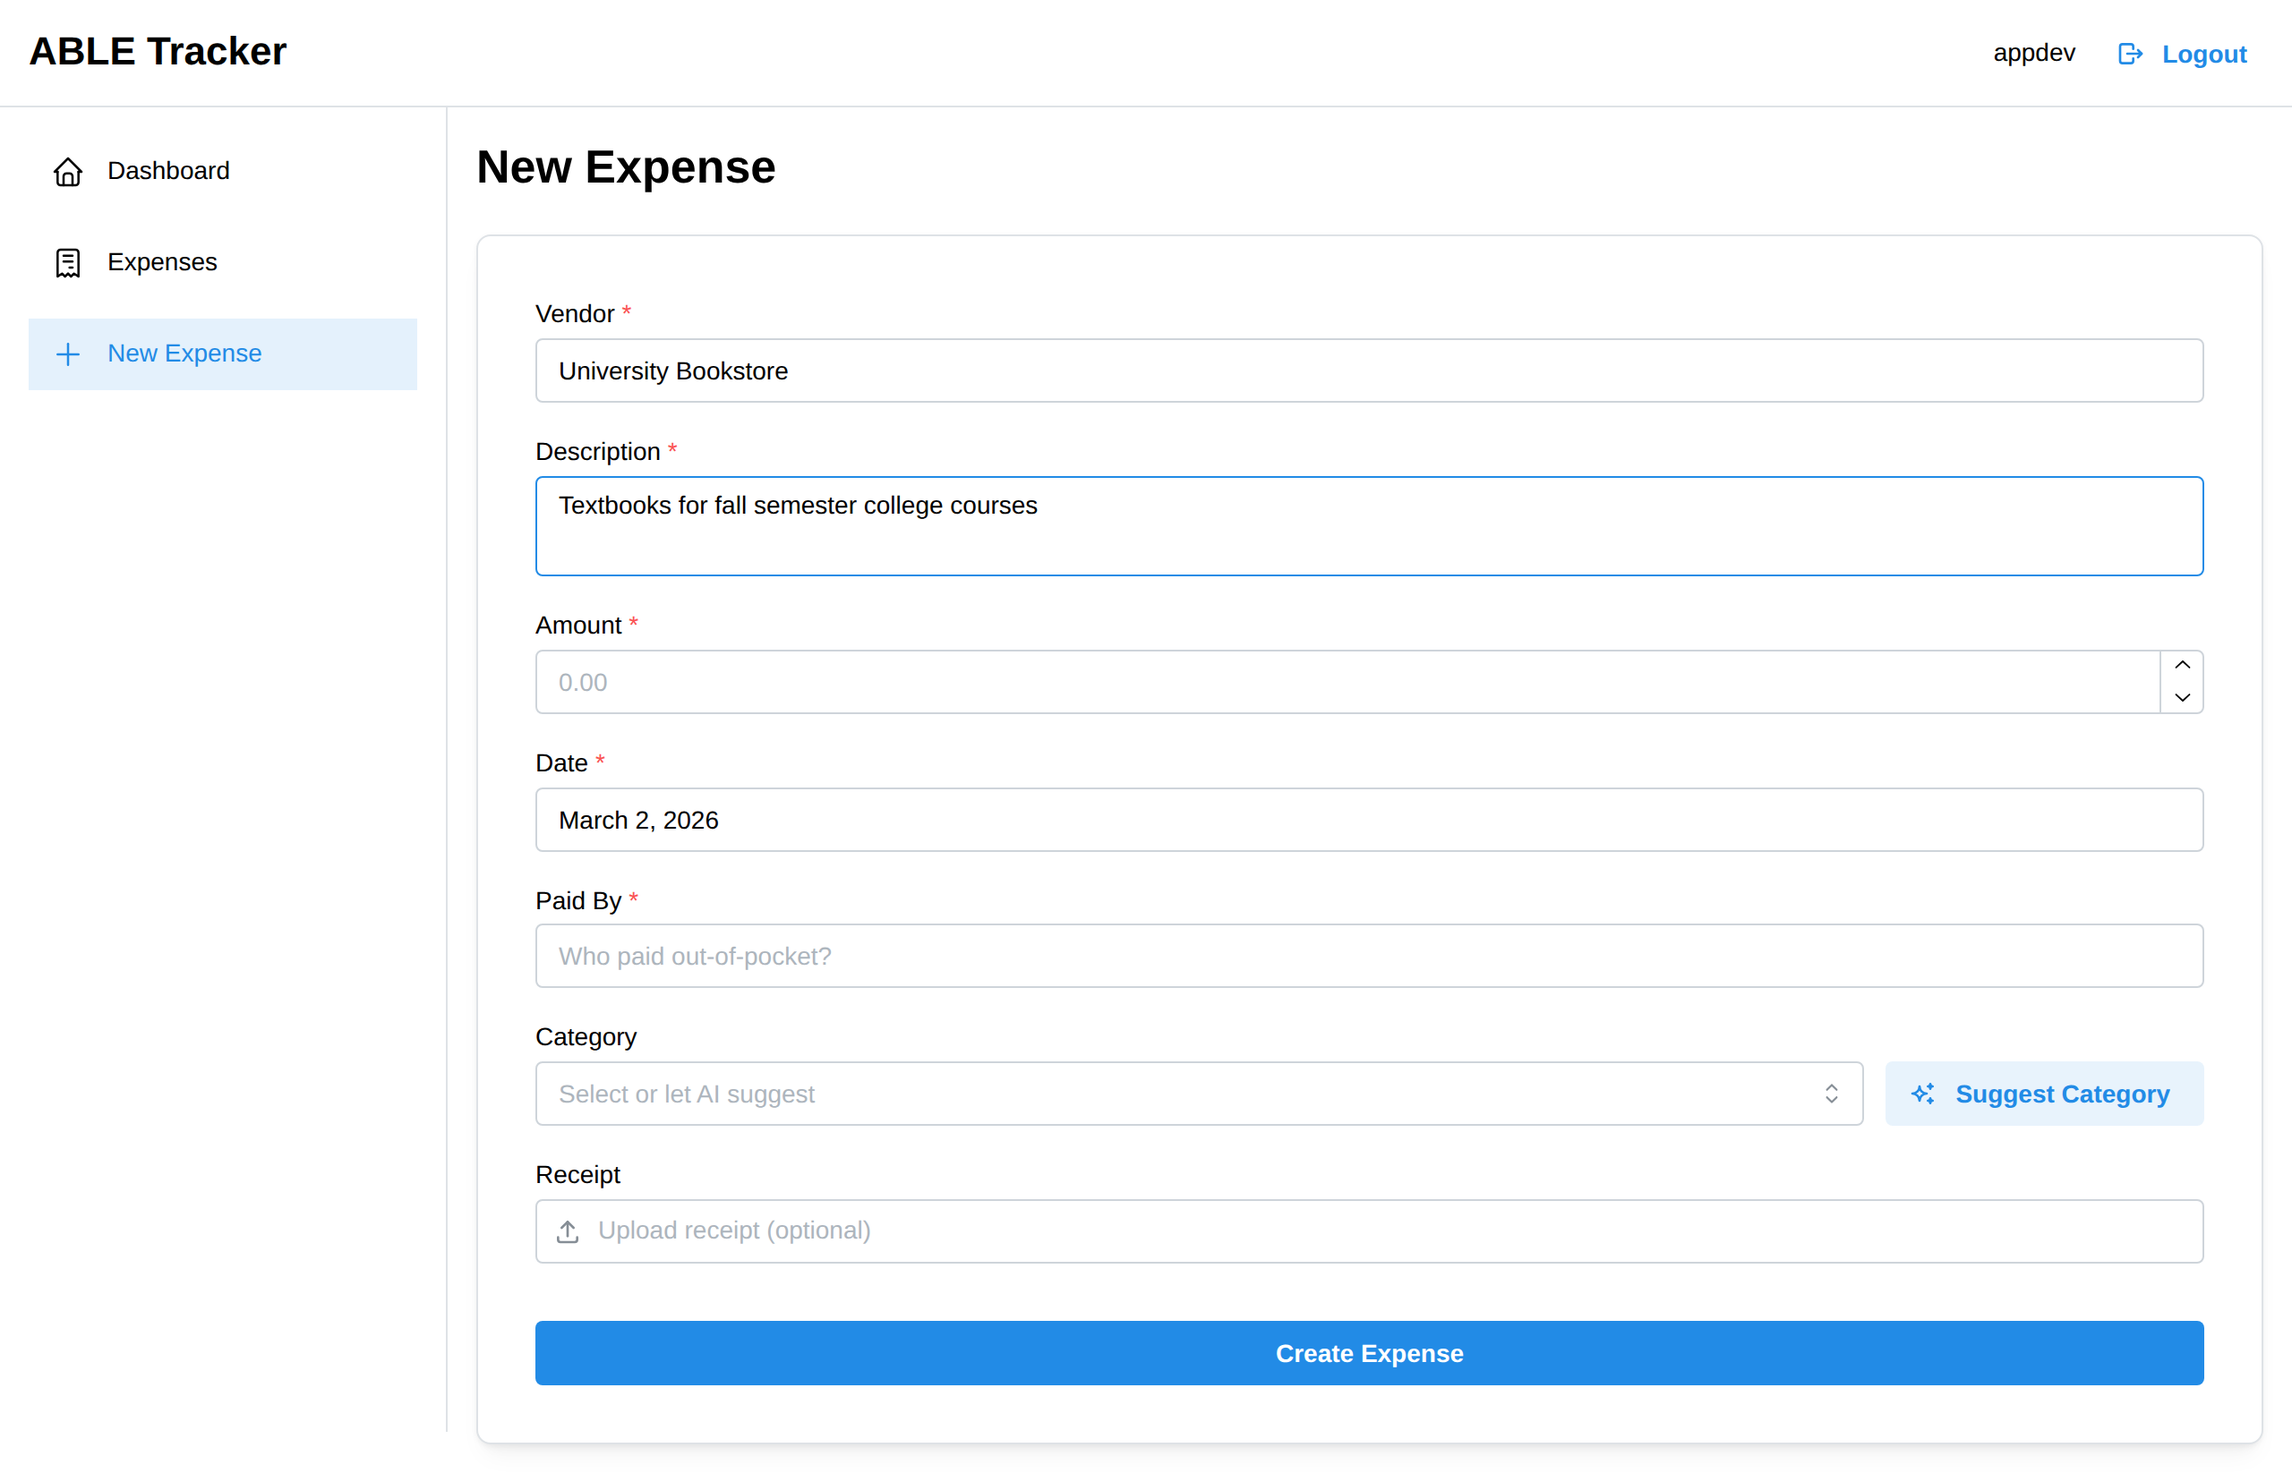
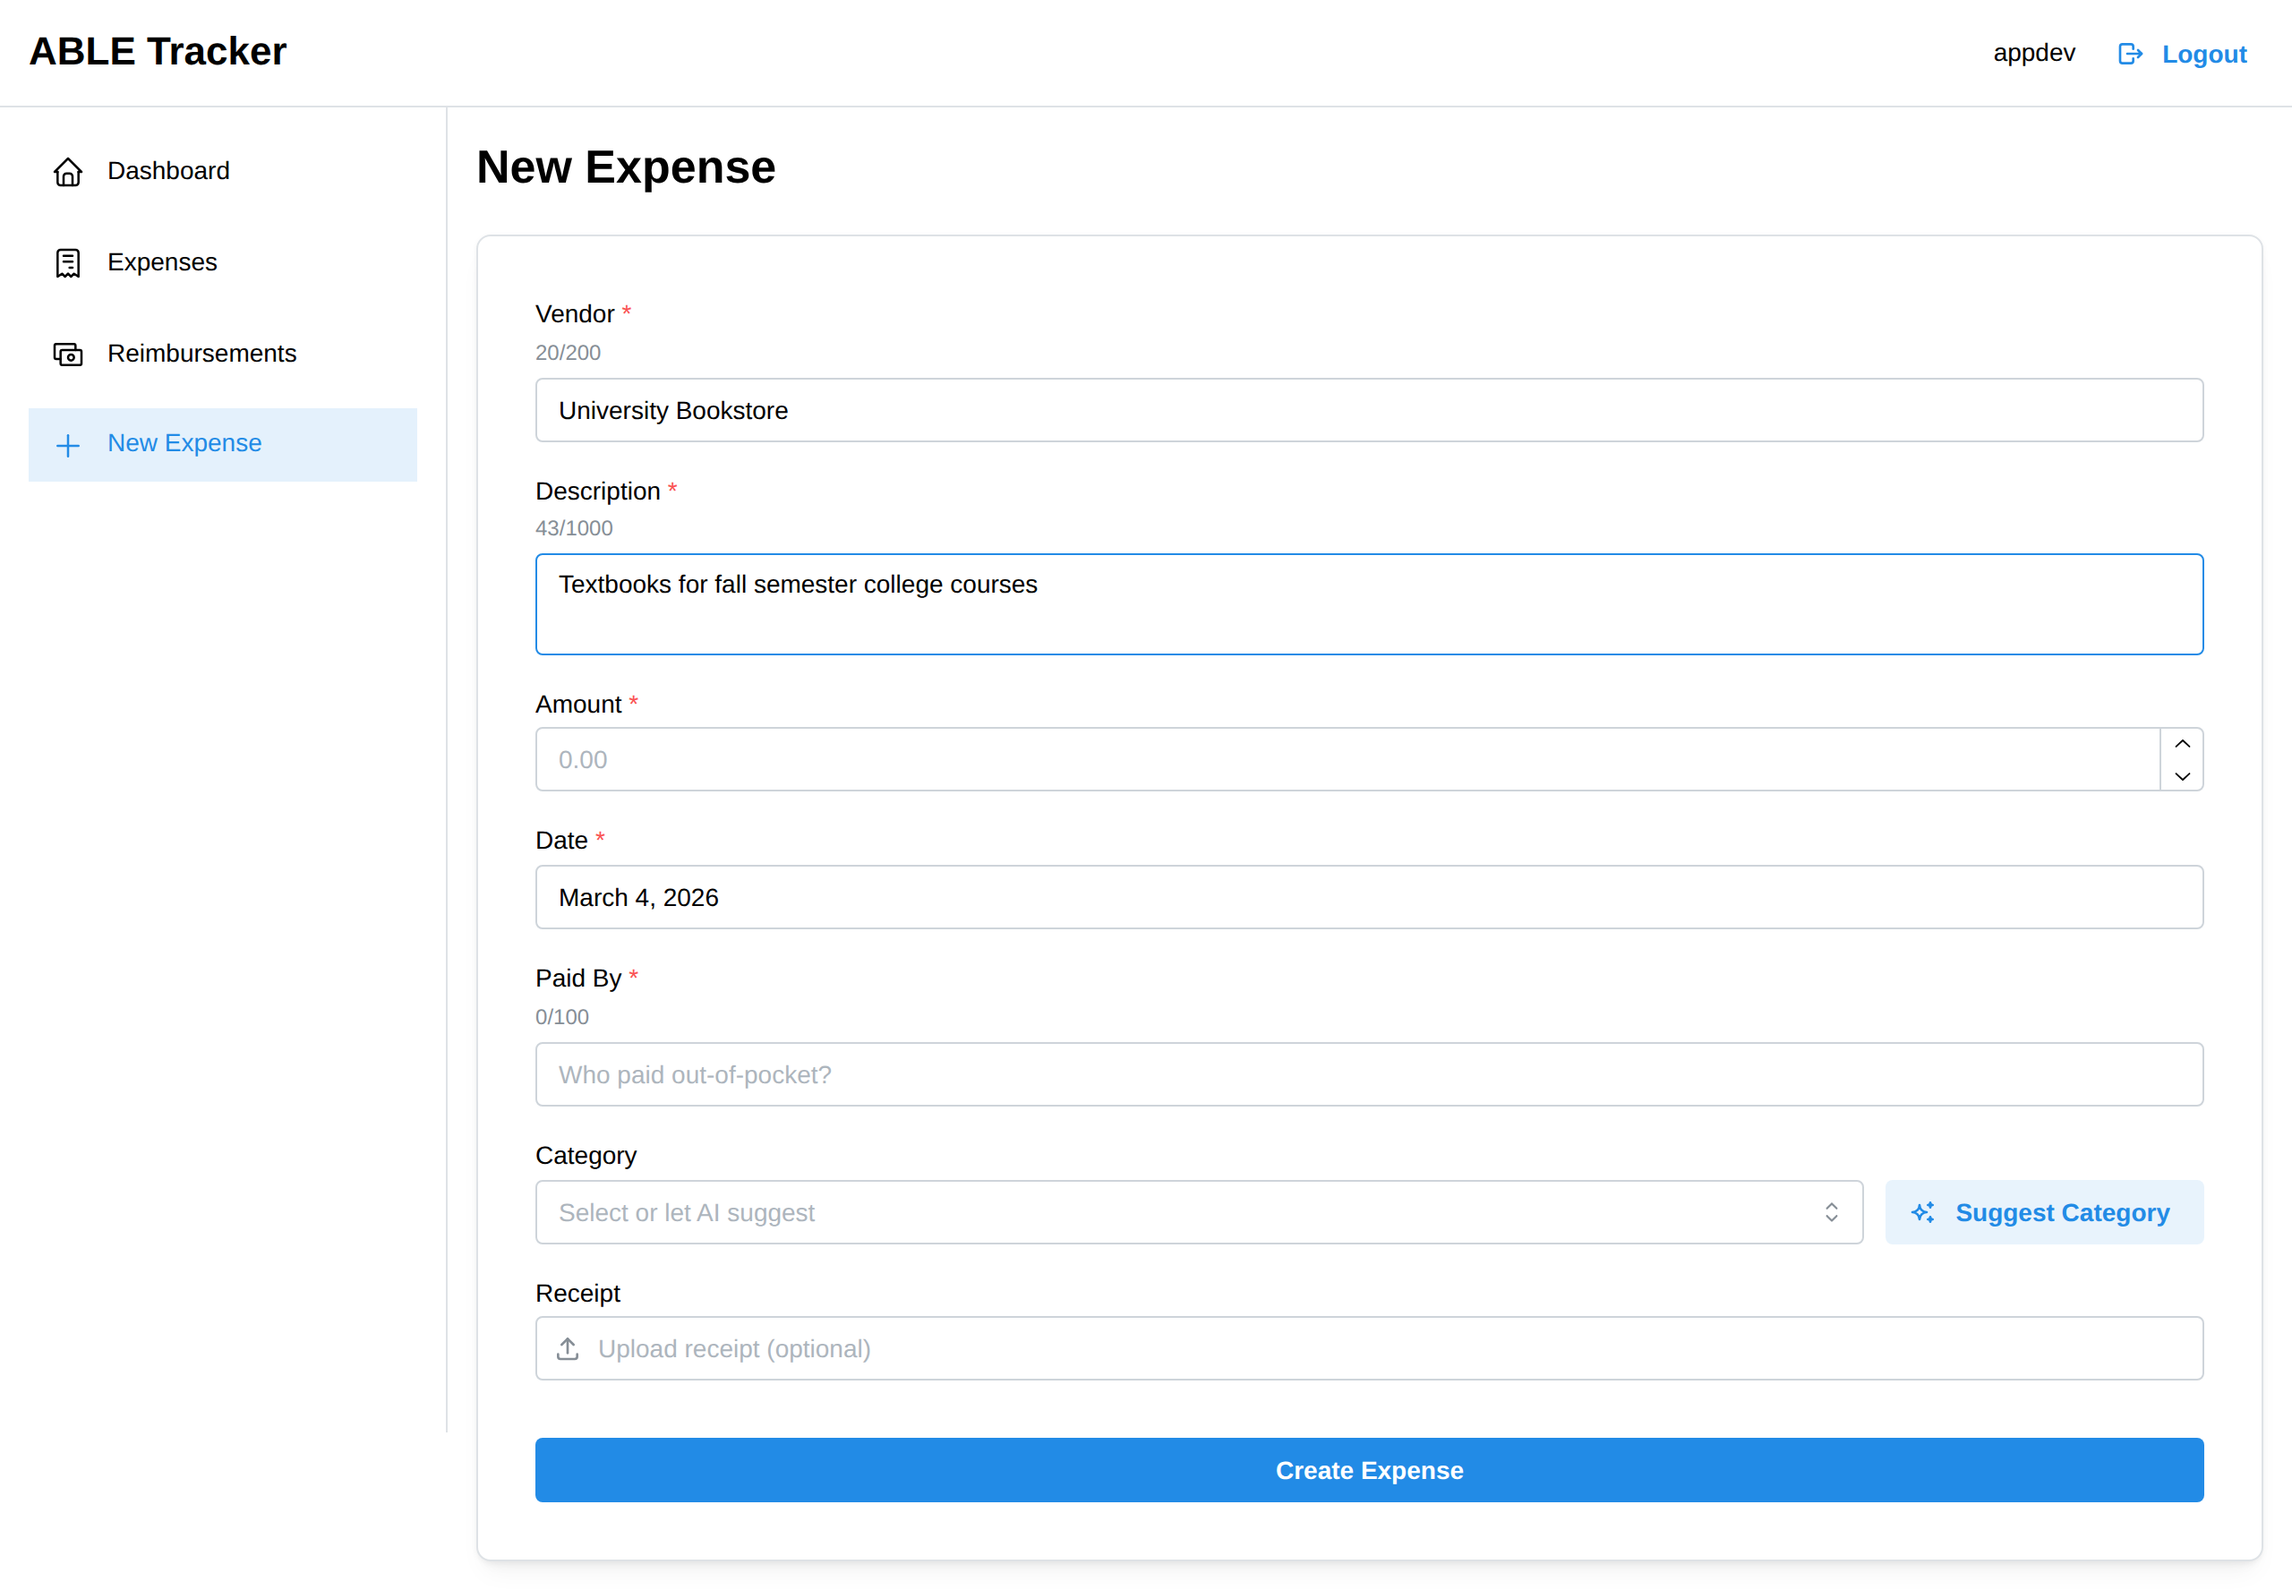
docs: update product demo for Sprint 4
- Add new Section 8 (Reimbursements page) with screenshot
- Update Dashboard section to document reimbursement summary and recent expenses
- Update Add Expense form with character limits (vendor 200, description 1000, paidBy 100) and $1M amount cap
- Update Navigation section for 4 sidebar links (added Reimbursements)
- Move Reimbursement Tracking from "Coming Soon" to implemented
- Update Security section with least-privilege IAM and post-deploy smoke tests
- Add Reimbursements page capture to capture-screenshots.mjs
- Refresh all screenshots against live deployed environment

diff --git a/docs/demos/product-demo.md b/docs/demos/product-demo.md
@@ -1,6 +1,6 @@
 # ABLE Tracker -- Product Demo
 
-> Last updated: Sprint 3, 2026-03-02 (post-deployment)
+> Last updated: Sprint 4, 2026-03-04 (post-deployment)
 
 ## What is ABLE Tracker?
 
@@ -79,7 +79,7 @@ All application pages (Dashboard, Expenses, Add Expense) are protected. Unauthen
 
 ![Dashboard](screenshots/03-dashboard.png)
 
-The Dashboard is the landing page after login. It greets the user by name and provides quick-action cards for common tasks.
+The Dashboard is the landing page after login. It greets the user by name, provides quick-action cards for common tasks, shows a reimbursement summary, and lists recent expenses.
 
 **Steps:**
 
@@ -88,16 +88,27 @@ The Dashboard is the landing page after login. It greets the user by name and pr
 3. See two quick-action cards:
    - **"Add Expense"** -- Record a new qualified ABLE expense
    - **"View Expenses"** -- Browse and manage your expenses
+4. Below the quick actions, the **Reimbursements** section shows:
+   - **Total Unreimbursed** -- The aggregate amount owed across all payers
+   - Per-person cards showing each payer's name, amount owed, and expense count
+5. The **Recent Expenses** section shows the 5 most recent expenses with vendor, date, and amount.
 
 **What happens:**
 - The display name is extracted from your Cognito JWT token claims.
-- Each card is a clickable link that navigates to the corresponding page.
+- Each quick-action card is a clickable link that navigates to the corresponding page.
+- Reimbursement summaries are fetched from the `/dashboard/reimbursements` API endpoint.
+- Recent expenses are fetched from `/expenses` and trimmed to the 5 most recent.
+- If no expenses exist, an empty state is shown with a link to add the first expense.
 
 **Verification:**
 - [ ] Dashboard displays "Welcome, [name]" with the logged-in user's display name
 - [ ] "Add Expense" card links to `/expenses/new`
 - [ ] "View Expenses" card links to `/expenses`
 - [ ] Cards are visually distinct with icons (blue plus icon, teal receipt icon)
+- [ ] Reimbursements section shows total unreimbursed amount
+- [ ] Per-person reimbursement cards show name, amount, and expense count
+- [ ] Recent Expenses section shows up to 5 expenses with vendor, date, and amount
+- [ ] Empty state shows a friendly message with a link to add an expense
 
 ---
 
@@ -114,11 +125,12 @@ The app uses a sidebar navigation layout with a fixed header. On mobile, the sid
 **Sidebar links:**
 - **Dashboard** (home icon) -- `/`
 - **Expenses** (receipt icon) -- `/expenses`
+- **Reimbursements** (cash icon) -- `/reimbursements`
 - **New Expense** (plus icon) -- `/expenses/new`
 
 **Steps:**
 
-1. From any page, observe the sidebar on the left with three navigation links.
+1. From any page, observe the sidebar on the left with four navigation links.
 2. Click each link to navigate between pages.
 3. On the header, observe your display name and the Logout button.
 4. Click **Logout** to end your session and return to the login page.
@@ -132,7 +144,7 @@ The app uses a sidebar navigation layout with a fixed header. On mobile, the sid
 3. Tap the hamburger to open/close the sidebar as an overlay.
 
 **Verification:**
-- [ ] Three navigation links are visible: Dashboard, Expenses, New Expense
+- [ ] Four navigation links are visible: Dashboard, Expenses, Reimbursements, New Expense
 - [ ] Active page is visually highlighted in the sidebar
 - [ ] Clicking a link navigates to the correct page
 - [ ] Display name appears in the header
@@ -152,11 +164,11 @@ This is the core data entry form where authorized representatives record qualifi
 
 | Field       | Type          | Required | Notes |
 |-------------|---------------|----------|-------|
-| Vendor      | Text input    | Yes      | e.g., "University Bookstore" |
-| Description | Text area     | Yes      | Describe what the expense was for |
-| Amount      | Number input  | Yes      | Entered in dollars (e.g., $75.00), converted to cents internally |
+| Vendor      | Text input    | Yes      | e.g., "University Bookstore" (max 200 characters) |
+| Description | Text area     | Yes      | Describe what the expense was for (max 1,000 characters) |
+| Amount      | Number input  | Yes      | Entered in dollars (e.g., $75.00), converted to cents internally. Max $1,000,000 |
 | Date        | Date picker   | Yes      | Defaults to today; cannot be a future date |
-| Paid By     | Text input    | Yes      | Who paid out-of-pocket for this expense |
+| Paid By     | Text input    | Yes      | Who paid out-of-pocket for this expense (max 100 characters) |
 | Category    | Select/AI     | No       | One of 11 ABLE categories; can be selected manually or suggested by AI |
 | Receipt     | File upload   | No       | Accepts images and PDFs (upload UI present, backend handler exists) |
 
@@ -183,12 +195,15 @@ This is the core data entry form where authorized representatives record qualifi
 
 **Validation rules:**
 - Vendor, Description, and Paid By must not be empty
-- Amount must be greater than zero
+- Vendor max 200 characters, Description max 1,000 characters, Paid By max 100 characters
+- Amount must be greater than zero and no more than $1,000,000
 - Date must not be in the future
 
 **Verification:**
 - [ ] All required fields show error messages when submitted empty
 - [ ] Amount field displays `$` prefix and formats to two decimal places
+- [ ] Amount rejects values over $1,000,000
+- [ ] Character limits enforced: Vendor (200), Description (1,000), Paid By (100)
 - [ ] Date picker defaults to today and blocks future dates
 - [ ] Category dropdown lists all 11 ABLE categories
 - [ ] Success notification appears after creating an expense
@@ -302,7 +317,49 @@ If no expenses have been recorded yet, the page shows a friendly empty state wit
 
 ---
 
-### 8. Logout
+### 8. Reimbursements
+
+![Reimbursements page](screenshots/11-reimbursements.png)
+
+The Reimbursements page provides a dedicated view of who is owed money and how much. It aggregates all unreimbursed expenses by payer and shows a summary with recent expense details.
+
+**Page sections:**
+
+1. **Total Unreimbursed** -- A prominent banner showing the aggregate unreimbursed amount across all payers
+2. **Per-person cards** -- Each card shows the payer's name, number of unreimbursed expenses, and total amount owed (displayed in red)
+3. **Recent Expenses table** -- The 5 most recent expenses with date, vendor, paid by, amount, and reimbursed status badge
+4. **Add Expense button** -- Quick action to create a new expense from this page
+
+**Steps:**
+
+1. Navigate to **Reimbursements** from the sidebar.
+2. Observe the **Total Unreimbursed** amount at the top.
+3. Review the per-person breakdown cards showing who is owed what.
+4. Scroll down to see the **Recent Expenses** table with reimbursement status badges.
+
+**What happens:**
+- All expenses are fetched from the API via `/expenses`.
+- The page filters out reimbursed expenses and aggregates the remaining by `paidBy` field.
+- Per-person cards are sorted by total owed (highest first).
+- The Recent Expenses table shows the 5 most recent expenses regardless of reimbursement status.
+
+**Empty states:**
+- If no expenses exist, a friendly message appears: "No expenses yet. Add your first expense to start tracking reimbursements."
+- If all expenses are reimbursed, a green "All caught up!" message appears.
+
+**Verification:**
+- [ ] Total Unreimbursed amount is displayed prominently
+- [ ] Per-person cards show payer name, expense count, and amount owed in red
+- [ ] Amount owed excludes reimbursed expenses
+- [ ] Recent Expenses table shows date, vendor, paid by, amount, and reimbursed badge
+- [ ] Reimbursed badge is green for "Yes" and gray for "No"
+- [ ] "Add Expense" button links to `/expenses/new`
+- [ ] Empty state shows when no expenses exist
+- [ ] "All caught up!" state shows when all expenses are reimbursed
+
+---
+
+### 9. Logout
 
 ![Logout](screenshots/10-logout.png)
 
@@ -353,22 +410,19 @@ All API endpoints require a valid Cognito JWT in the `Authorization: Bearer <tok
 
 - **API Gateway JWT authorizer** -- All routes require Cognito JWT validation before reaching Lambda
 - **Lambda-level auth validation** -- Defense-in-depth; handlers verify auth context independently
+- **Least-privilege IAM** -- Lambda roles use fine-grained DynamoDB permissions (specific actions on specific table/index ARNs) instead of broad wildcards
 - **CORS restriction** -- API only accepts requests from the deployed frontend domain and localhost
-- **Input validation** -- String length limits, amount validation, receipt key scoping
+- **Input validation** -- String length limits (vendor 200, description 1000, paidBy 100), amount validation (>0, max $1M), receipt key scoping
 - **Generic error messages** -- Auth failures return generic messages; no implementation details leaked
 - **Secret scanning** -- Pre-commit hook and CI pipeline scan for leaked secrets/credentials
 - **No PII to AI** -- Only vendor name and description are sent to the Claude API; no account numbers, SSNs, or personal data
+- **Post-deploy smoke tests** -- Automated CI pipeline validates all API endpoints after every deployment
 
 ---
 
 ## Coming Soon
 
 The following features are planned but not yet implemented:
-
-### Reimbursement Tracking (Issues #10, #16, #65)
-- **What**: Mark expenses as reimbursed, track who is owed what, dashboard summary showing total outstanding per person
-- **Why**: This closes the core workflow loop: log expense -> categorize -> reimburse
-- **Status**: Backend data model supports it (reimbursed/reimbursedAt fields exist); UI and API handler not yet built
 
 ### Receipt Upload UI
 - **What**: Frontend interface for attaching receipt photos/PDFs to expenses
@@ -430,7 +484,7 @@ The app is responsive (sidebar collapses on narrow screens), but has not been op
 1. Open your CloudFront URL in your browser (see `deployment.env.example` for how to find it).
 2. Log in with your credentials.
 3. Explore the Dashboard, navigate between pages, and try the Add Expense form.
-4. Test the full flow: create expenses, use AI categorization, and view the expense list.
+4. Test the full flow: create expenses, use AI categorization, view the expense list, and check the Reimbursements page.
 
 ### For Developers
 
